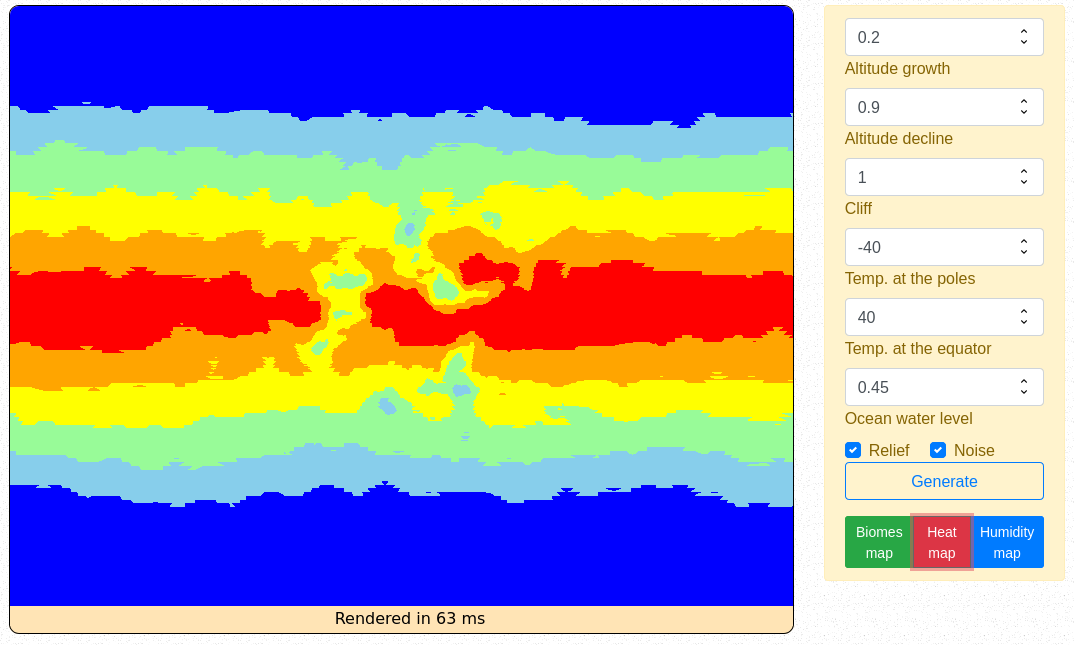
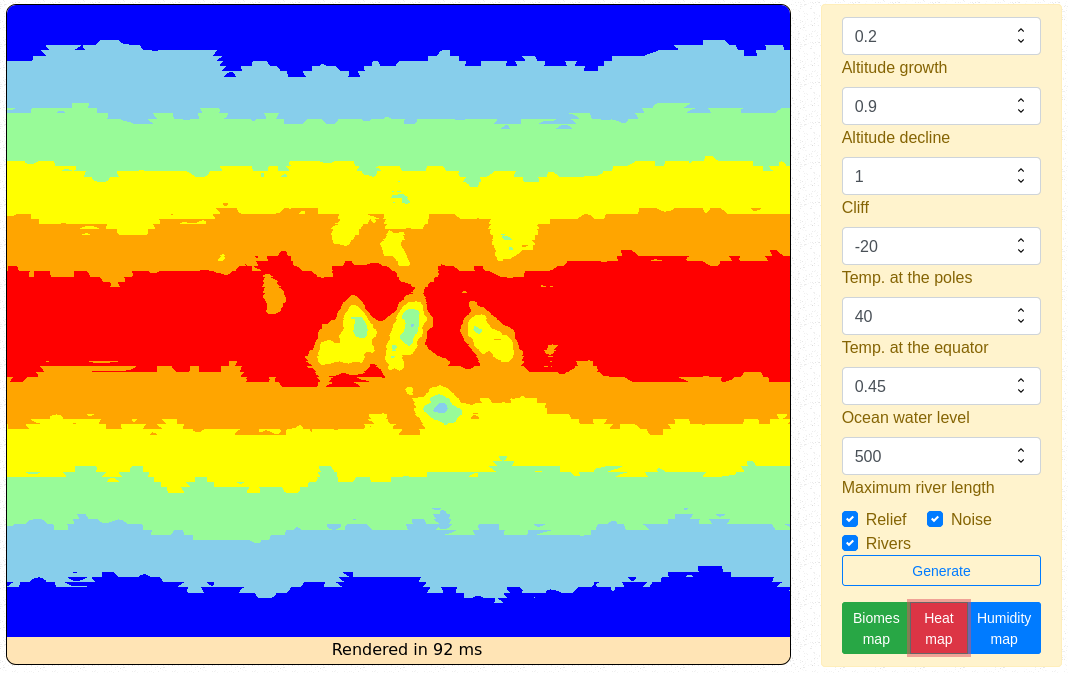
Added rivers

diff --git a/src/App.html b/src/App.html
@@ -15,7 +15,7 @@
 	} from "svelte";
 
 	let width = 800;
-	let height = 616;
+	let height = 632;
 	var noisearray = new Array(width);
 	var heatmap = new Array(width);
 	var humiditymap = new Array(width);
@@ -29,6 +29,7 @@
 	var generatebutton = true;
 	var noisemap = true;
 	var reliefmap = true;
+	var rivermap = false;
 	var drawriver = false;
 	var drawriverstep = 0;
 	var riverlength = 500;
@@ -143,7 +144,9 @@
 		}
 		generateTemp();
 		generateHumidity();
-		generateRivers();
+		if (rivermap) {
+			generateRivers();
+		}
 		drawMap();
 		generatebutton = true;
 	}
@@ -319,7 +322,7 @@
 	}
 
 	#container>canvas {
-		height: 636px;
+		height: 652px;
 		background-color: moccasin;
 	}
 </style>
@@ -348,7 +351,8 @@
 			<Label>Maximum river length</Label>
 			<CustomInput type="checkbox" label="Relief" id="reliefmap" inline bind:checked={reliefmap} />
 			<CustomInput type="checkbox" label="Noise" inline id="noisemap" bind:checked={noisemap} />
-			<Button block color="primary" outline={generatebutton} on:click={generateMap}>Generate</Button>
+			<CustomInput type="checkbox" label="Rivers" inline id="rivermap" bind:checked={rivermap} />
+			<Button block size="sm" color="primary" outline={generatebutton} on:click={generateMap}>Generate</Button>
 			<p></p>
 			<ButtonGroup>
 				<Button size="sm" color="success" on:click={drawMap}>Biomes map</Button>
